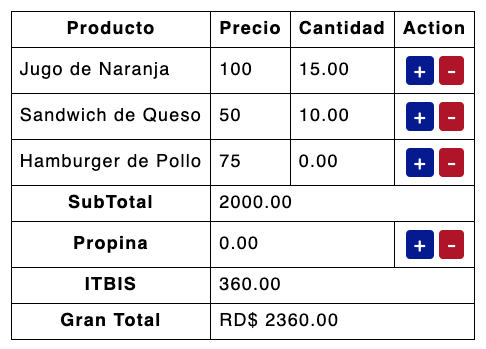
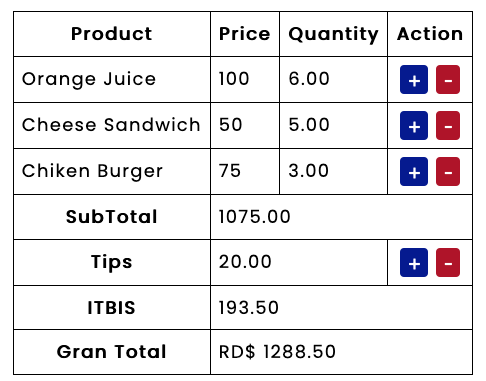
Translate somes words

Changed region(s): [[0.0, 0.0287, 0.9877, 1.0], [0.1543, 0.659, 0.3086, 0.7163], [0.4321, 0.659, 0.5556, 0.7163]]

diff --git a/index.html b/index.html
@@ -22,9 +22,9 @@
 <table class="mainTable" >
         <thead class="head">
                 <tr>
-                        <th>Producto</th>
-                        <th>Precio</th>
-                        <th>Cantidad</th>
+                        <th>Product</th>
+                        <th>Price</th>
+                        <th>Quantity</th>
                         <th>Action</th>
                 </tr>
         </thead>
@@ -71,7 +71,7 @@
                         
                 </tr>
                 <tr>
-                        <th>Propina</th>
+                        <th>Tips</th>
                         <td colspan="2" class="tips">0.00</td>
                         <td >
                             <span class="buttons">

diff --git a/js/main.js b/js/main.js
@@ -3,17 +3,17 @@
 class Product{
     static menu = {
         p1:{
-            name:'Jugo de Naranja',
+            name:'Orange Juice',
             price:100, 
             quantity:0
         }, 
         p2:{
-            name:'Sandwich de Queso',
+            name:'Cheese Sandwich',
             price:50, 
             quantity:0
         }, 
         p3:{
-            name:'Hamburger de Pollo',
+            name:'Chiken Burger',
             price:75, 
             quantity:0
         }
